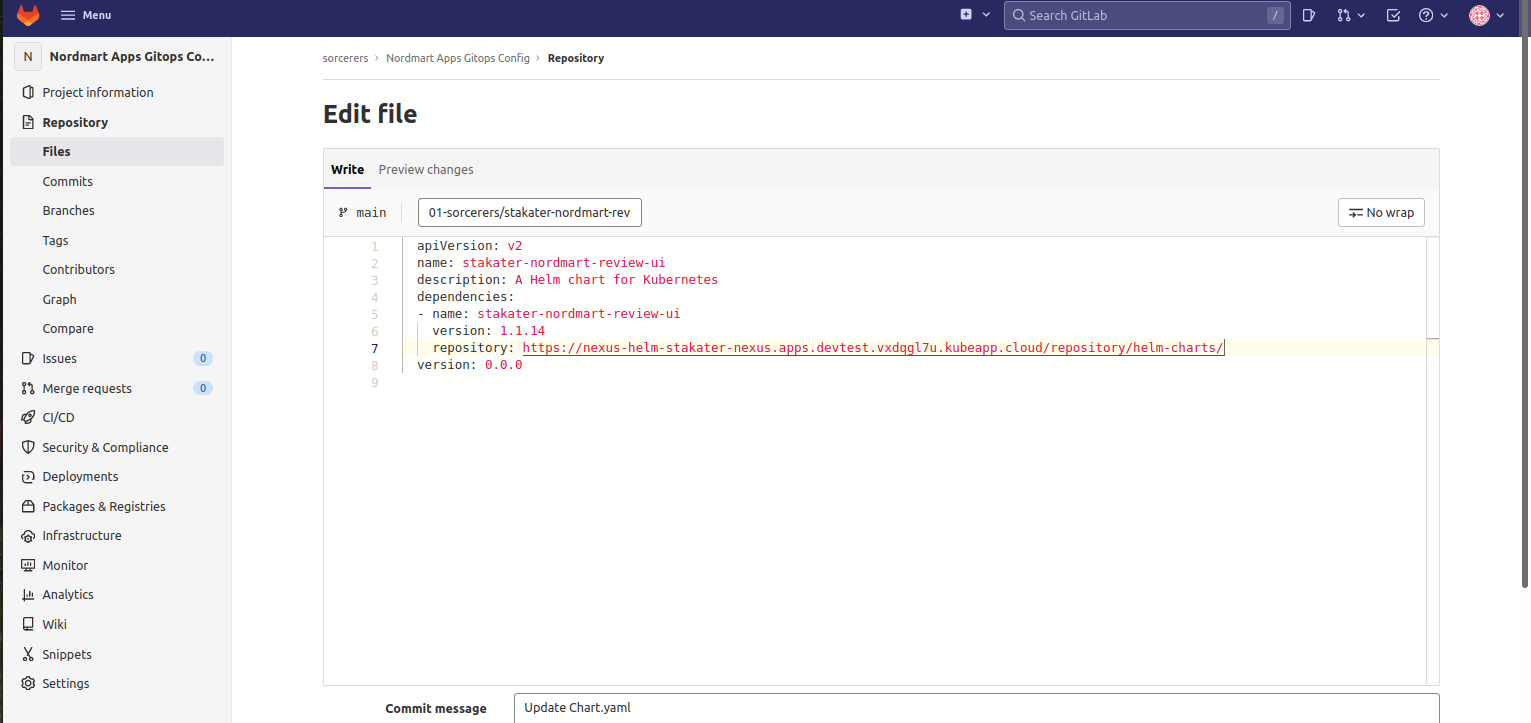
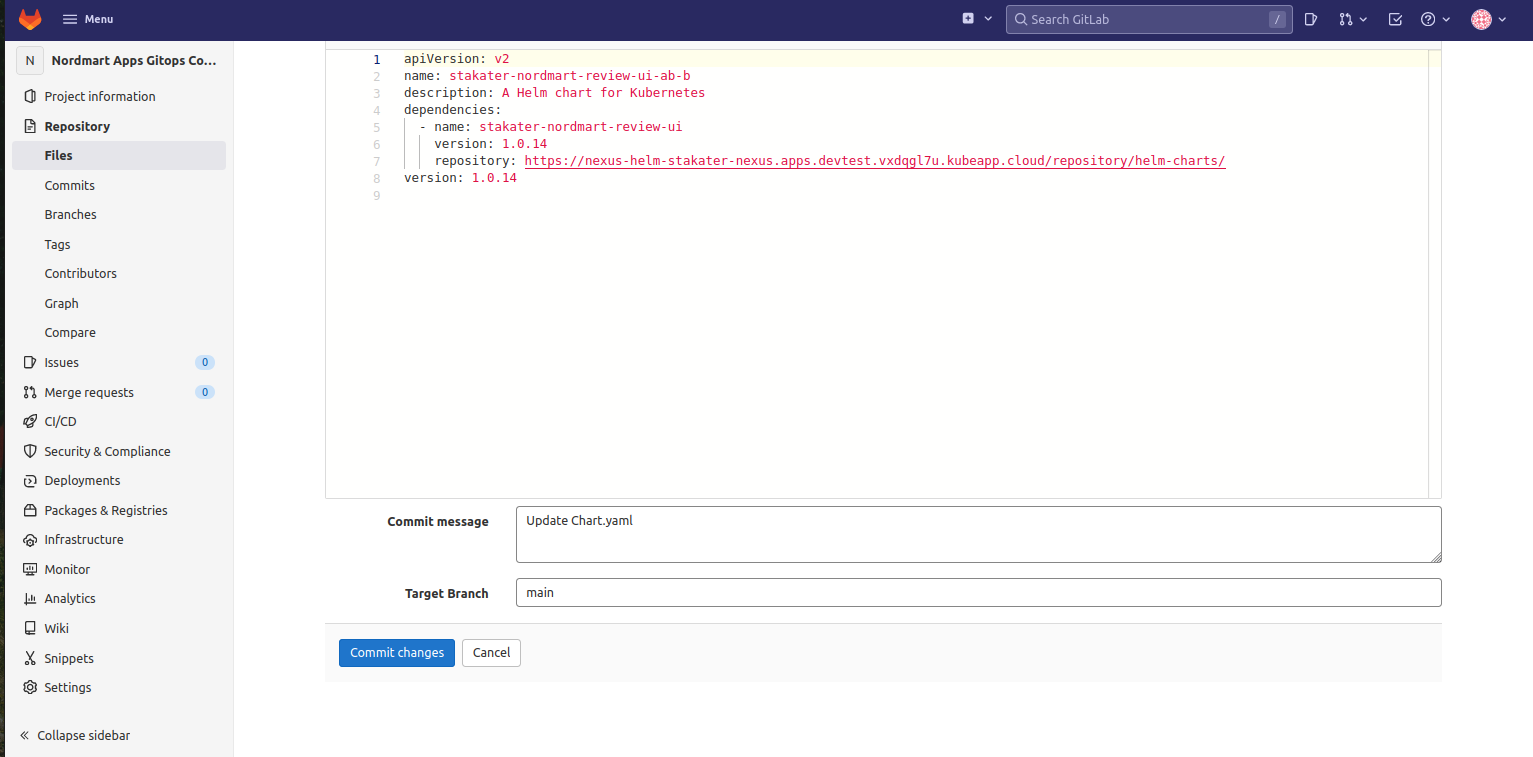
final

diff --git a/docs/5-the-deployments-strike-back/3-a-b-deployments.md b/docs/5-the-deployments-strike-back/3-a-b-deployments.md
@@ -109,13 +109,13 @@ For this experiment, we are going to deploy 2 instances of Stakater Nordmart Rev
 
     ```yaml
       apiVersion: v2
-      name: stakater-nordmart-review-ui
+      name: stakater-nordmart-review-ui-ab-a
       description: A Helm chart for Kubernetes
       dependencies:
-      - name: stakater-nordmart-review-ui
-        version: 1.1.14
-        repository:  https://nexus-helm-stakater-nexus.apps.devtest.vxdqgl7u.kubeapp.cloud/repository/helm-charts/
-      version: 0.0.0
+        - name: stakater-nordmart-review-ui
+          version: 1.0.14
+          repository:  https://nexus-helm-stakater-nexus.apps.devtest.vxdqgl7u.kubeapp.cloud/repository/helm-charts/
+      version: 1.0.14
     ```
     
   ![ab-new-chart-a](images/ab-new-chart-a.png)
@@ -188,11 +188,11 @@ For this experiment, we are going to deploy 2 instances of Stakater Nordmart Rev
 
     ```yaml
       apiVersion: v2
-      name: stakater-nordmart-review-ui
+      name: stakater-nordmart-review-ui-ab-b
       description: A Helm chart for Kubernetes
       dependencies:
       - name: stakater-nordmart-review-ui
-        version: 1.1.14
+        version: 1.0.14
         repository: https://nexus-helm-stakater-nexus.apps.devtest.vxdqgl7u.kubeapp.cloud/repository/helm-charts/
       version: 0.0.0
     ```
@@ -255,6 +255,11 @@ For this experiment, we are going to deploy 2 instances of Stakater Nordmart Rev
    
 
    ![argo-b](images/b-argocd.png)
+
+9. Now lets head over to ArgoCD to check if our application B was deployed.
+   
+   ![argo-b-sync](images/argocd-sync.png)
+
 
 2. Extend the configuration for the existing Pet Battle deployment (`A`) by adding the `a_b_deploy` properties to the `values` section. Copy the below lines under `pet-battle` application definition in `/projects/tech-exercise/pet-battle/test/values.yaml` file.
 
